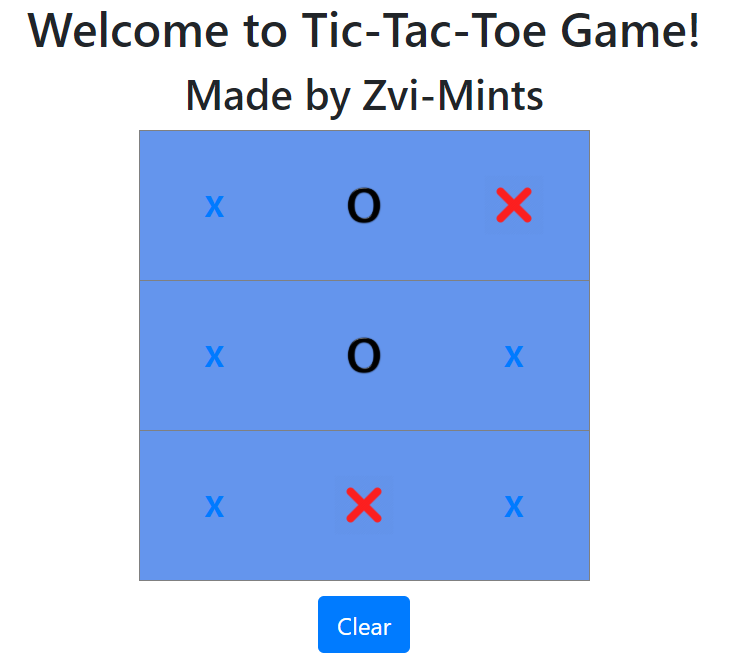
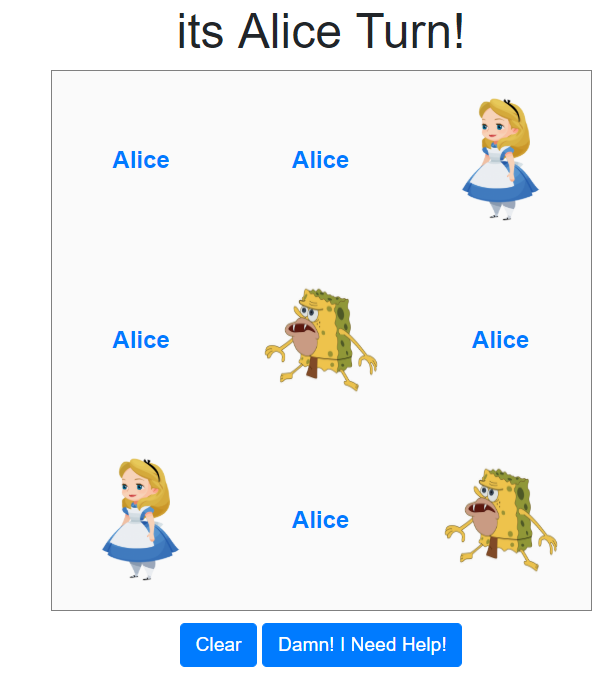
Added AI

diff --git a/templates/index.html b/templates/index.html
@@ -1,58 +1,8 @@
-<!DOCTYPE html>
-<html lang="en">
-<head>
-    <title>CS50 Tic-Tac-Toe Game</title>
-    <link rel="stylesheet" href="https://stackpath.bootstrapcdn.com/bootstrap/4.3.1/css/bootstrap.min.css" integrity="sha384-ggOyR0iXCbMQv3Xipma34MD+dH/1fQ784/j6cY/iJTQUOhcWr7x9JvoRxT2MZw1T" crossorigin="anonymous">
-    <style>
-    body {
-        width: 500px;
-        text-align: center;
-        margin-left: auto;
-        margin-right: auto;
-    }
-     tr {
-        border-collapse: collapse;
-        border: 1px solid gray;
-     }
-     td {
-        background-color: cornflowerblue;
-        width: 100px;
-        height: 100px;
-        font-size: 20px;
-        font-weight: bold;
-     }
-     td img {
-         width: 40px;
-         height: 40px;
-     }
-    </style>
-</head>
-<body>
-    <h2>Welcome to Tic-Tac-Toe Game!</h2>
-    <h3>Made by Zvi-Mints</h3>
-    {% if not ans %}
-    <table align="center">
-    {% for i in range(3) %}
-        <tr>
-            {% for j in range(3) %}
-                <td>
-                    {% if game[i][j] == "X" %}
-                       <img src="https://cdn1.iconfinder.com/data/icons/basic-ui-elements-coloricon/21/19-512.png"/>
-                    {% elif game[i][j] == "O" %}
-                        <img src="https://www.freeiconspng.com/uploads/letter-o-icon-png-8.png"/>
-                    {% else %}
-                        <a href="{{ url_for('play',row=i,col=j) }}">{{ turn }}</a>
-                    {% endif %}
-                </td>
-            {% endfor %}
-        </tr>
-    {% endfor %}
-    </table>
-    {% else %}
-    <h1>{{ ans }}</h1>
-    {% endif %}
-    <a style="margin-top:10px" href="/clear" class="btn btn-primary" data-toggle="collapse" href="#collapseExample" role="button" aria-expanded="false" aria-controls="collapseExample">
-    Clear
+{% extends "layout.html" %}
+
+{% block content %}
+<h2>Sup?</h2>
+    <a style="margin-top:10px" href="/game" class="btn btn-primary" data-toggle="collapse" href="#collapseExample" role="button" aria-expanded="false" aria-controls="collapseExample">
+    Start Playing!
     </a>
-</body>
-</html>
+{% endblock %}

diff --git a/templates/layout.html b/templates/layout.html
@@ -1,0 +1,44 @@
+<!DOCTYLE html>
+<html len="en">
+    <head>
+        <title>Zvi-Mints Tic-Tac-Toe Game</title>
+        <link rel="stylesheet" href="https://stackpath.bootstrapcdn.com/bootstrap/4.3.1/css/bootstrap.min.css" integrity="sha384-ggOyR0iXCbMQv3Xipma34MD+dH/1fQ784/j6cY/iJTQUOhcWr7x9JvoRxT2MZw1T" crossorigin="anonymous">
+        <style>
+                   body {
+                        font-family: Arial,Verdana,'sans serif';  
+                        text-align: center;
+                   }
+                    
+                    #content {
+                      width: 900px;
+                      margin-left: auto;
+                      margin-right: auto;
+                      resize: both;
+                      margin-top: 10px;
+                    }
+                 table {
+                     text-align: center;
+                     background-color: #fafafa;
+                     border: 1px solid gray;
+                 }
+                 tr {
+                    border-collapse: collapse;
+                 }
+                 td {
+                    width: 150px;
+                    height: 150px;
+                    font-size: 20px;
+                    font-weight: bold;
+                 }
+                 td img {
+                     width: 100px;
+                     height: 120px;
+                 }
+        </style>
+    </head>
+    <body>
+        <div id="content">
+		  {% block content %}{% endblock %}
+        </div>
+    </body>
+</html>

diff --git a/templates/game.html b/templates/game.html
@@ -1,0 +1,29 @@
+{% extends "layout.html" %}
+{% block content %}
+<h1>its {{ turn}} Turn!</h1>
+    <table align="center">
+    {% for i in range(3) %}
+        <tr>
+            {% for j in range(3) %}
+                <td>
+                    {% if game[i][j] == "Alice" %}
+                       <img src="http://www.transparentpng.com/thumb/alice/alice-png-7.png"/>
+                    {% elif game[i][j] == "Bob" %}
+                        <img src="http://pngriver.com/wp-content/uploads/2018/04/Download-Bob-PNG-Image.png"/>
+                    {% else %}
+                        <a href="{{ url_for('play',row=i,col=j) }}">{{ turn }}</a>
+                    {% endif %}
+                </td>
+            {% endfor %}
+        </tr>
+    {% endfor %}
+    </table>
+    <a style="margin-top:10px" href="/clear" class="btn btn-primary" data-toggle="collapse" href="#collapseExample" role="button" aria-expanded="false" aria-controls="collapseExample">
+    Clear
+    </a>
+    <a style="margin-top:10px" href="/help" class="btn btn-primary" data-toggle="collapse" href="#collapseExample" role="button" aria-expanded="false" aria-controls="collapseExample">
+    Damn! I Need Help!
+    </a>
+{% endblock %}
+
+

diff --git a/templates/finish.html b/templates/finish.html
@@ -1,0 +1,9 @@
+{% extends "layout.html" %}
+{% block content %}
+    <h1>{{ ans }}</h1>
+    <a style="margin-top:10px" href="/clear" class="btn btn-primary" data-toggle="collapse" href="#collapseExample" role="button" aria-expanded="false" aria-controls="collapseExample">
+    Take me Home!
+    </a>
+{% endblock %}
+
+

diff --git a/application.py b/application.py
@@ -1,6 +1,8 @@
 from flask import Flask, render_template, session, redirect, url_for
 from flask_session import Session
 from tempfile import mkdtemp
+import math 
+
 
 app = Flask(__name__)
 
@@ -14,37 +16,41 @@ app.secret_key = "super secret key"
 
 @app.route("/")
 def index():
+    return render_template("index.html")
+
+@app.route("/game")
+def game():
     if not "board" in session:
         session["board"] = [[None,None,None],
                             [None,None, None],
                             [None,None, None]]
-        session["turn"] = "X"    
+        session["turn"] = "Alice"    
     ans = CheckWinner(session["board"])
     if(ans[0] == True):
-        return render_template("index.html",game=session["board"],turn=session["turn"],ans=f"{ans[1]} Player is Won!")
+        return render_template("finish.html",ans=f"{ans[1]} Player is Won!")
     elif(ans[0] == False and ans[1] == "Draw"):
-        return render_template("index.html",game=session["board"],turn=session["turn"],ans="Its a Draw!")
+        return render_template("finish.html",ans="Its a Draw!")
     else:
-        return render_template("index.html",game=session["board"],turn=session["turn"])
+        return render_template("game.html",game=session["board"],turn=session["turn"])
 
 @app.route("/play/<int:row>/<int:col>")
 def play(row,col):
     session["board"][row][col] = session["turn"] 
-    if session["turn"] == "X":
-        session["turn"] = "O"
+    if session["turn"] == "Alice":
+        session["turn"] = "Bob"
     else:
-        session["turn"] = "X"
-    return redirect(url_for("index"))
+        session["turn"] = "Alice"
+    return redirect(url_for("game"))
 
 @app.route("/clear")
 def clear():
     session["board"] = [[None,None,None],
-                            [None,None, None],
-                            [None,None, None]]
-    session["turn"] = "X"
-    return redirect(url_for("index"))
+                        [None,None, None],
+                        [None,None, None]]
+    session["turn"] = "Alice"
+    return redirect(url_for("game"))
     
-def CheckWinner(board):
+def CheckWinner(board): # [x,y] for x iff game is finished with winner and y = "Draw" if the game is draw, else, the winner (["Alice","Y"])
     # Checking the rows..
     for i in range(3):
         for j in range(3):
@@ -71,15 +77,56 @@ def CheckWinner(board):
          if(board[1][1] != None):
              return [True, board[1][1]] 
 
-     #Checking if its draw..
     for i in range(3):
         for j in range(3):
             if(board[i][j] == None):
-                return [False, board[0][0]]  
+                return [False, board[0][0]]  # Its Return somthing, never mind[1]. 
 
     # Its Draw!
     return [False, "Draw"]
+  
+@app.route("/help")
+def help():
+    ans = minimax(session["board"],session["turn"])
+    if ans[1] is not None:
+        return redirect(url_for('play', row=ans[1][0], col=ans[1][1]))
     
+    
+def minimax(board,turn):
+    ans = CheckWinner(board)
+    if(ans[0] == True and ans[1] == "Alice"):
+        return (1,None)
+    elif(ans[0] == True and ans[1] == "Bob"):
+        return (-1,None)
+    elif(ans[0] == False and ans[1] == "Draw"):
+        return (0,None)
+    else: # Next Step of Recursion
+        moves = []
+        for i in range(3):
+            for j in range(3):
+                if(board[i][j] == None):
+                    moves.append((i,j))
+        # All Moves that avaliabe are now at moves
+        if turn == "Alice":
+            value = -2
+            for i,j in moves:
+                board[i][j] = "Alice"
+                result = minimax(board,"Bob")[0]
+                if(value < result):
+                    value = result
+                    step = (i,j)
+                board[i][j] = None
+        elif turn == "Bob": # turn is "Bob"
+            value = 2
+            for i,j in moves:
+                board[i][j] = "Bob"
+                result = minimax(board,"Alice")[0]
+                if(value > result):
+                    value = result
+                    step = (i,j)
+                board[i][j] = None
+        return (value,step)    
+
 if __name__ == '__main__':
     app.debug = True
     app.run()
